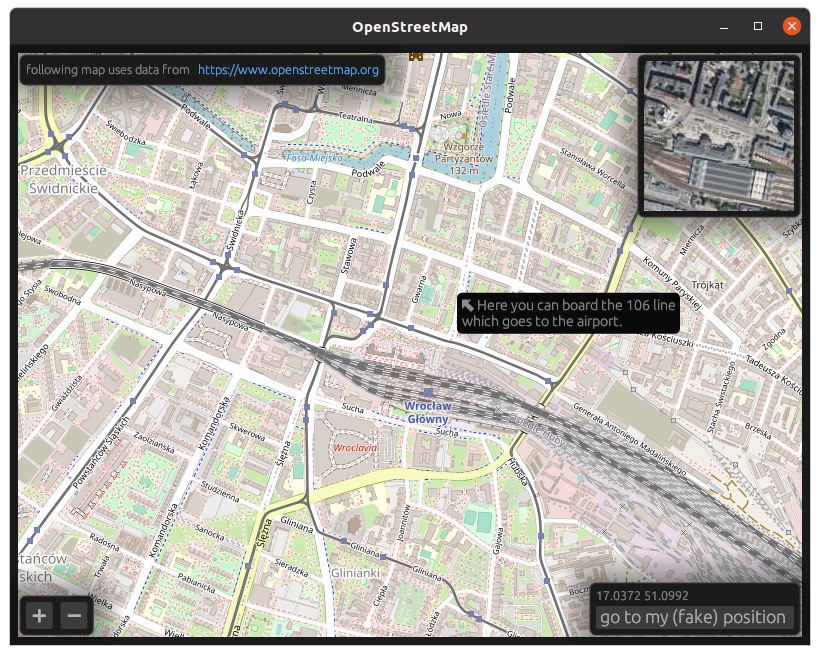
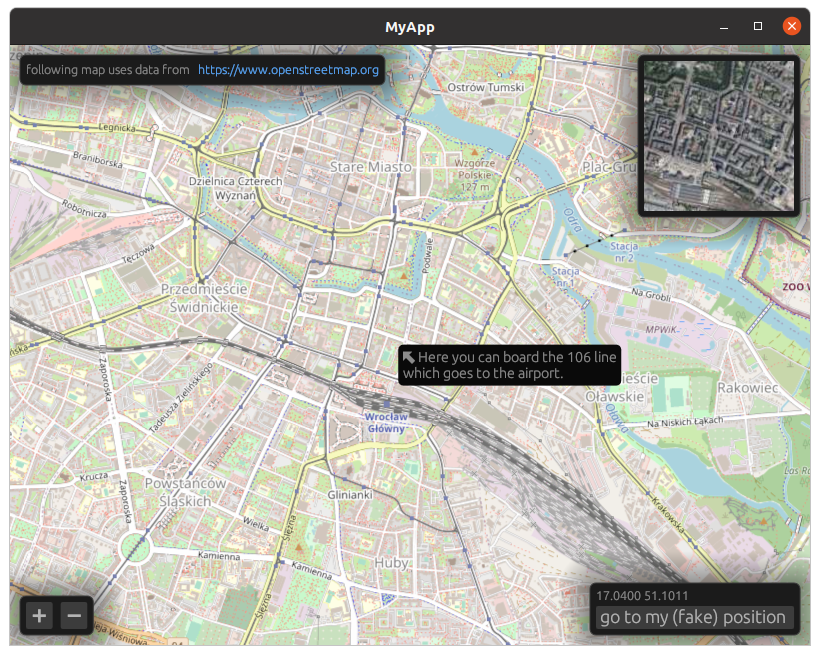
no padding

diff --git a/examples/myapp.rs b/examples/myapp.rs
@@ -28,39 +28,46 @@ impl MyApp {
 
 impl eframe::App for MyApp {
     fn update(&mut self, ctx: &egui::Context, _frame: &mut eframe::Frame) {
-        egui::CentralPanel::default().show(ctx, |ui| {
-            // Typically this would be a GPS acquired position which is tracked by the map.
-            let my_position = places::wroclaw_glowny();
+        let rimless = egui::Frame {
+            fill: ctx.style().visuals.panel_fill,
+            ..Default::default()
+        };
 
-            // In egui, widgets are constructed and consumed in each frame.
-            let map = Map::new(Some(&mut self.tiles), &mut self.map_memory, my_position);
+        egui::CentralPanel::default()
+            .frame(rimless)
+            .show(ctx, |ui| {
+                // Typically this would be a GPS acquired position which is tracked by the map.
+                let my_position = places::wroclaw_glowny();
 
-            // Optionally, a function which draw custom stuff on the map can be attached.
-            let ctx_clone = ctx.clone();
-            let map = map.with_drawer(move |painter, project| {
-                draw_custom_shapes(ctx_clone.clone(), painter, project);
+                // In egui, widgets are constructed and consumed in each frame.
+                let map = Map::new(Some(&mut self.tiles), &mut self.map_memory, my_position);
+
+                // Optionally, a function which draw custom stuff on the map can be attached.
+                let ctx_clone = ctx.clone();
+                let map = map.with_drawer(move |painter, project| {
+                    draw_custom_shapes(ctx_clone.clone(), painter, project);
+                });
+
+                // Draw the map widget.
+                ui.add(map);
+
+                // Draw utility windows.
+                {
+                    use windows::*;
+
+                    zoom(ui, &mut self.map_memory);
+                    go_to_my_position(ui, &mut self.map_memory);
+
+                    orthophotomap(
+                        ui,
+                        &mut self.geoportal_tiles,
+                        &mut self.map_memory,
+                        my_position,
+                    );
+
+                    acknowledge(ui);
+                }
             });
-
-            // Draw the map widget.
-            ui.add(map);
-
-            // Draw utility windows.
-            {
-                use windows::*;
-
-                zoom(ui, &mut self.map_memory);
-                go_to_my_position(ui, &mut self.map_memory);
-
-                orthophotomap(
-                    ui,
-                    &mut self.geoportal_tiles,
-                    &mut self.map_memory,
-                    my_position,
-                );
-
-                acknowledge(ui);
-            }
-        });
     }
 }
 
